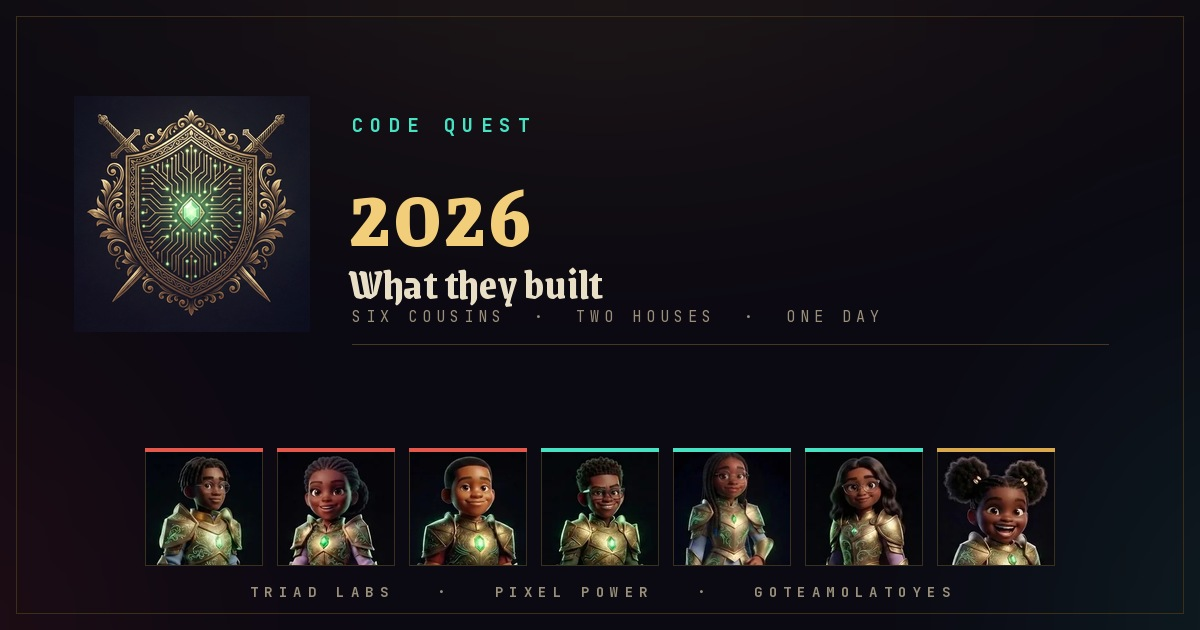
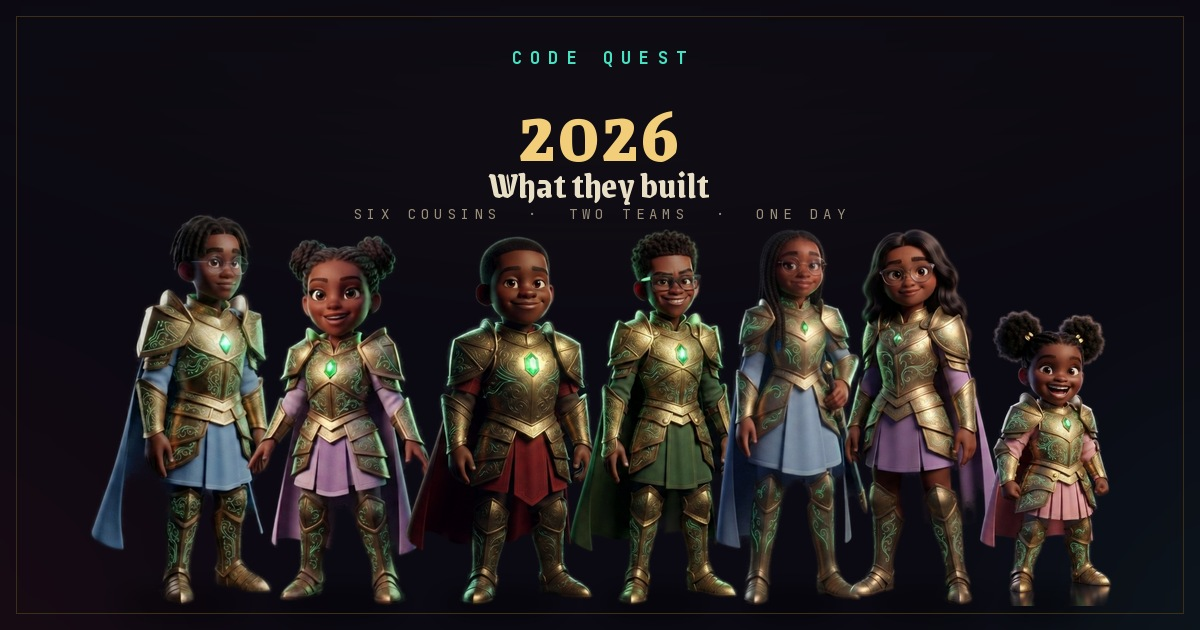
Overview: teams not houses, and a group OG card
Replaces house language with teams throughout. New OG card cuts all
seven cousins out of their awakening stills with alpha matting and
stands them together as a group, scaled roughly by age.

diff --git a/codequest/2026/index.html b/codequest/2026/index.html
@@ -5,13 +5,13 @@
 <meta name="viewport" content="width=device-width, initial-scale=1, viewport-fit=cover">
 <meta name="theme-color" content="#0B0912">
 <title>Code Quest 2026 · What happened</title>
-<meta name="description" content="Six cousins, two houses, one day. Everything built at Code Quest 2026 — the builds, the verdict and the awards. #GoTeamOlatoyes Summer Tour.">
+<meta name="description" content="Six cousins, two teams, one day. Everything built at Code Quest 2026 — the builds, the verdict and the awards. #GoTeamOlatoyes Summer Tour.">
 <meta property="og:title" content="Code Quest 2026 · What happened">
-<meta property="og:description" content="Six cousins, two houses, one day. Six builds, six presentations, and a tie.">
+<meta property="og:description" content="Six cousins, two teams, one day. Six builds, six presentations, and a tie.">
 <meta property="og:image" content="https://altitudeaico.github.io/goteamolatoyes/codequest/2026/og.jpg">
 <meta property="og:image:width" content="1200">
 <meta property="og:image:height" content="630">
-<meta property="og:image:alt" content="Code Quest 2026 crest with the seven cousins in armour, colour-coded by house.">
+<meta property="og:image:alt" content="The seven cousins standing together in Code Quest armour.">
 <meta property="og:url" content="https://altitudeaico.github.io/goteamolatoyes/codequest/2026/">
 <meta property="og:type" content="website">
 <meta name="twitter:card" content="summary_large_image">
@@ -238,17 +238,17 @@ footer{
       <span class="gemglow" aria-hidden="true"></span>
     </div>
     <div class="strap">Saturday 1 August 2026 &middot; Native, Manchester</div>
-    <p class="lede">Six cousins. Two houses. One day to build something that did not exist that morning, and then stand up in front of the family and explain it. Six projects were finished. Six of them were presented. Grandma judged.</p>
+    <p class="lede">Six cousins. Two teams. One day to build something that did not exist that morning, and then stand up in front of the family and explain it. Six projects were finished. Six of them were presented. Grandma judged.</p>
   </header>
 
   <div class="orn"><i></i></div>
 
   <section>
-    <p class="eyebrow" id="builds">The two houses</p>
+    <p class="eyebrow" id="builds">The two teams</p>
     <h2>Who built what</h2>
     <div class="teams">
       <a class="team a" href="../triad-labs/">
-        <div class="tag">House the First</div>
+        <div class="tag">Team one</div>
         <div class="name">Triad Labs</div>
         <div class="faces">
[1 lines of base64/hex data omitted]
@@ -264,7 +264,7 @@ footer{
       </a>
 
       <a class="team b" href="../pixel-power/">
-        <div class="tag">House the Second</div>
+        <div class="tag">Team two</div>
         <div class="name">Pixel Power</div>
         <div class="faces">
[1 lines of base64/hex data omitted]
@@ -350,7 +350,7 @@ footer{
       <cite>On honest self-assessment</cite>
     </div>
 
-    <p style="margin-top:22px">The lesson that came out of the day, more than any other: building the thing is the easier half. Four of the ten marks were for explaining it, and that is where the two houses separated.</p>
+    <p style="margin-top:22px">The lesson that came out of the day, more than any other: building the thing is the easier half. Four of the ten marks were for explaining it, and that is where the two teams separated.</p>
   </section>
 
   <div class="orn"><i></i></div>
